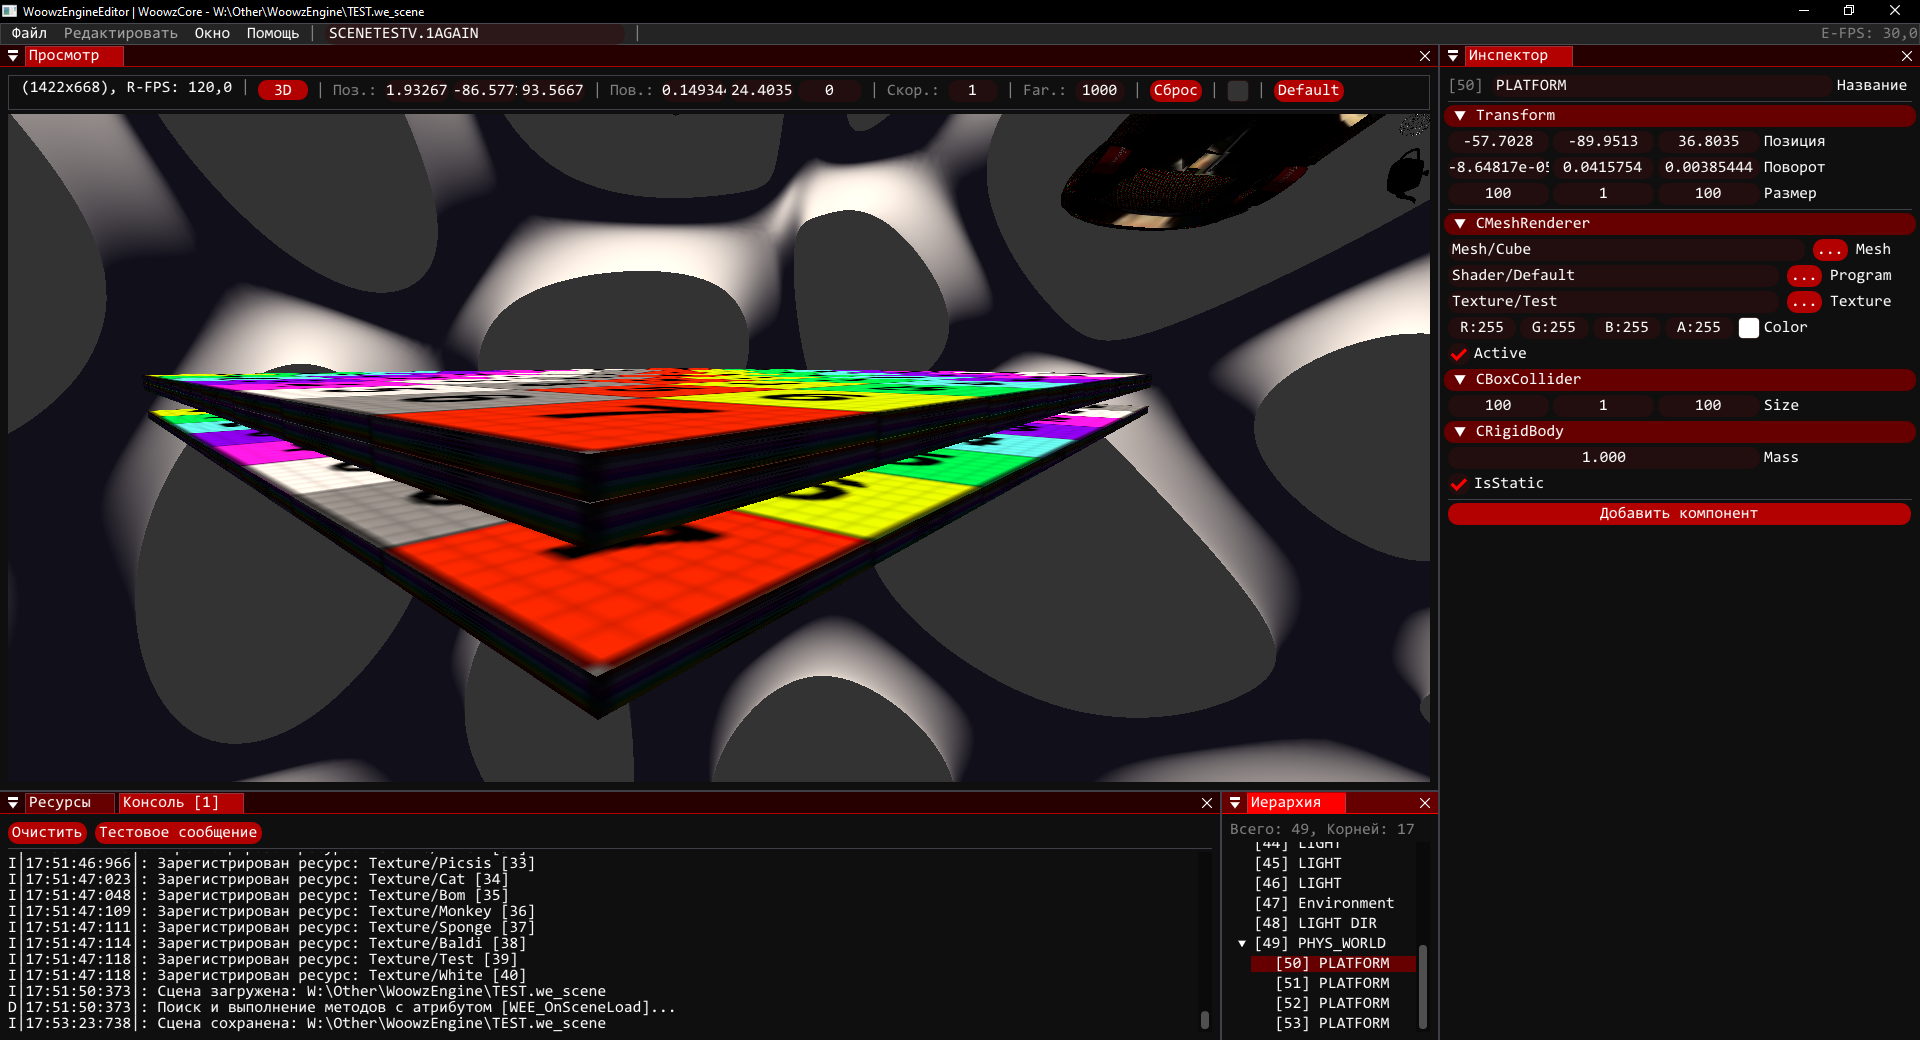
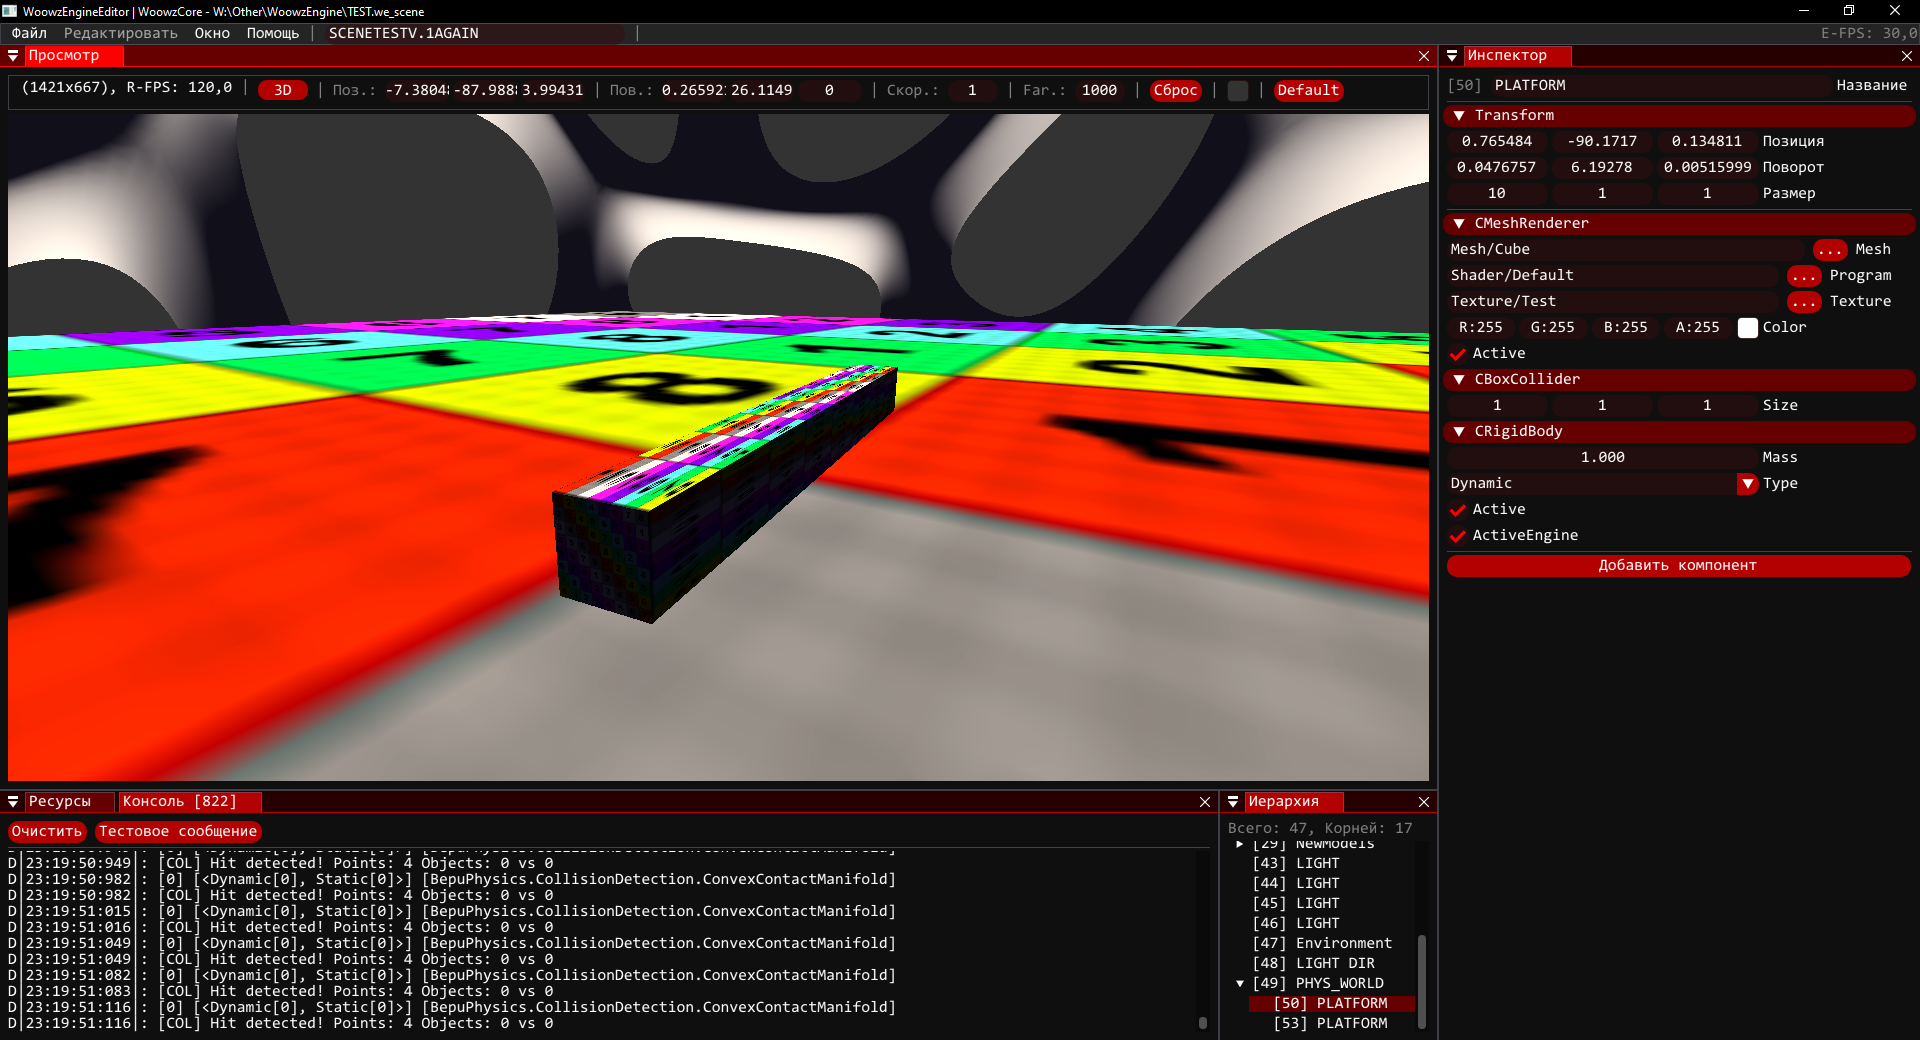
physic editor 💟💟💟✝☸⚛㊙ govno
Можно WE_Save теперь property
Component OnAdd, OnRemove
bool IsEditor

diff --git a/WoowzEngine/WoowzEngineEditor/WEE/Interface/I_Inspector.cs b/WoowzEngine/WoowzEngineEditor/WEE/Interface/I_Inspector.cs
@@ -113,23 +113,45 @@ public static class I_Inspector{
     }
     
     private static void DrawComponentFields(WEI.Component Component){
-        FieldInfo[] Fields = Component.GetType().GetFields(BindingFlags.Public | BindingFlags.NonPublic | BindingFlags.Instance);
-
-        foreach(FieldInfo Field in Fields){
+        Type Type = Component.GetType();
+        
+        foreach(FieldInfo Field in Type.GetFields(BindingFlags.Public | BindingFlags.NonPublic | BindingFlags.Instance)){
             if(Field.GetCustomAttribute<WE_Save>() == null){ continue; }
+            HandleMember(
+                Component,
+                Field.Name,
+                Field.FieldType,
+                () => Field.GetValue(Component),
+                Value => Field.SetValue(Component, Value),
+                Field
+            );
+        }
 
-            ImGui.PushID(Field.Name);
+        foreach(PropertyInfo Property in Type.GetProperties(BindingFlags.Public | BindingFlags.NonPublic | BindingFlags.Instance)){
+            if(Property.GetCustomAttribute<WE_Save>() == null || !Property.CanWrite || !Property.CanRead){ continue; }
+            HandleMember(
+                Component,
+                Property.Name,
+                Property.PropertyType,
+                () => Property.GetValue(Component),
+                Value => Property.SetValue(Component, Value),
+                Property
+            );
+        }
+    }
+    
+    private static void HandleMember(object Component, string Label, Type MemberType, Func<object?> Getter, Action<object?> Setter, MemberInfo Info){
+        ImGui.PushID(Label);
             
-            string Label = Field.Name;
-            object Value = Field.GetValue(Component)!;
+            object? Value = Getter();
 
-            Type FieldType = Field.FieldType;
+            if(Value == null && MemberType == typeof(string)){ Value = ""; }
 
-            if(FieldType.IsGenericType && FieldType.GetGenericTypeDefinition() == typeof(WEO.Asset<>)){
-                Type AssetTargetType = FieldType.GetGenericArguments()[0];
+            if(MemberType.IsGenericType && MemberType.GetGenericTypeDefinition() == typeof(WEO.Asset<>)){
+                Type AssetTargetType = MemberType.GetGenericArguments()[0];
 
-                string CurrentKey = (string)(FieldType.GetField("Key")!.GetValue(Value) ?? "");
-                bool   UseCache   = (bool)FieldType.GetField("UseCache")!.GetValue(Value)!;
+                string CurrentKey = (string)(MemberType.GetField("Key")!.GetValue(Value) ?? "");
+                bool   UseCache   = (bool)MemberType.GetField("UseCache")!.GetValue(Value)!;
                 
                 ImGui.BeginGroup();
 
@@ -141,8 +163,8 @@ public static class I_Inspector{
 
                     string TempKey = CurrentKey;
                     if(ImGui.InputText($"##in_{Label}", ref TempKey, 256)){
-                        ConstructorInfo? Constructor = FieldType.GetConstructor([typeof(string)]);
-                        Field.SetValue(Component, Constructor!.Invoke([TempKey]));
+                        ConstructorInfo? Constructor = MemberType.GetConstructor([typeof(string)]);
+                        Setter(Constructor!.Invoke([TempKey]));
                     }
 
                     if(!string.IsNullOrEmpty(CurrentKey) && ImGui.BeginDragDropSource()){
@@ -164,8 +186,8 @@ public static class I_Inspector{
 
                                 if(IsValidType){
                                     if(ImGui.IsMouseReleased(ImGuiMouseButton.Left)){
-                                        ConstructorInfo? Constructor = FieldType.GetConstructor([typeof(string)]);
-                                        Field.SetValue(Component, Constructor!.Invoke([DroppedKey]));
+                                        ConstructorInfo? Constructor = MemberType.GetConstructor([typeof(string)]);
+                                        Setter(Constructor!.Invoke([DroppedKey]));
                                     }
                                     
                                     ImGui.GetWindowDrawList().AddRect(ImGui.GetItemRectMin(), ImGui.GetItemRectMax(), ImGui.GetColorU32(new Vector4(0.2f, 1, 0.2f, 1)), 4.0f);
@@ -193,63 +215,63 @@ public static class I_Inspector{
                 if(ImGui.BeginPopup("AssetPicker")){
                     foreach(string Key in WE.Asset.GetKeysForType(AssetTargetType).OrderBy(K => K)){
                         if(ImGui.Selectable(Key, Key == CurrentKey)){
-                            ConstructorInfo? Constructor = FieldType.GetConstructor([typeof(string)]);
-                            Field.SetValue(Component, Constructor!.Invoke([Key]));
+                            ConstructorInfo? Constructor = MemberType.GetConstructor([typeof(string)]);
+                            Setter(Constructor!.Invoke([Key]));
                         }
                     }
                     ImGui.EndPopup();
                 }
-            }else if(FieldType == typeof(float)){
-                float V = (float)Value;
-                if(ImGui.DragFloat(Label, ref V, 0.1f)){ Field.SetValue(Component, V); }
-            }else if(FieldType == typeof(int)){
-                int V = (int)Value;
-                if(ImGui.DragInt(Label, ref V)){ Field.SetValue(Component, V); }
-            }else if(FieldType == typeof(bool)){
-                bool V = (bool)Value;
-                if(ImGui.Checkbox(Label, ref V)){ Field.SetValue(Component, V); }
-            }else if(FieldType == typeof(string)){
-                string V = (string)Value ?? "";
+            }else if(MemberType == typeof(float)){
+                float V = (float)Value!;
+                if(ImGui.DragFloat(Label, ref V, 0.1f)){ Setter(V); }
+            }else if(MemberType == typeof(int)){
+                int V = (int)Value!;
+                if(ImGui.DragInt(Label, ref V)){ Setter(V); }
+            }else if(MemberType == typeof(bool)){
+                bool V = (bool)Value!;
+                if(ImGui.Checkbox(Label, ref V)){ Setter(V); }
+            }else if(MemberType == typeof(string)){
+                string V = (string)Value!;
 
-                WEEI_MultilineString? MultilineAttribute = Field.GetCustomAttribute<WEEI_MultilineString>();
+                WEEI_MultilineString? MultilineAttribute = Info.GetCustomAttribute<WEEI_MultilineString>();
 
                 if(MultilineAttribute != null){
                     ImGui.Text(Label);
                     if(ImGui.InputTextMultiline($"##{Label}", ref V, 5000, new Vector2(-1, MultilineAttribute.Height))){
-                        Field.SetValue(Component, V);
+                        Setter(V);
                     }
                 }else{
                     if(ImGui.InputText(Label, ref V, 200)){
-                        Field.SetValue(Component, V);
+                        Setter(V);
                     }
                 }
-            }else if(FieldType == typeof(Vector3F)){
-                Vector3F V = (Vector3F)Value;
+            }else if(MemberType == typeof(Vector3F)){
+                Vector3F V = (Vector3F)Value!;
                 Vector3 SysV = new Vector3(V.X, V.Y, V.Z);
                 if(ImGui.DragFloat3(Label, ref SysV, 0.1f, 0, 0, "%g")){
-                    Field.SetValue(Component, new Vector3F(SysV.X, SysV.Y, SysV.Z));
+                    Setter(new Vector3F(SysV.X, SysV.Y, SysV.Z));
                 }
-            }else if(FieldType == typeof(Vector2F)){
-                Vector2F V = (Vector2F)Value;
+            }else if(MemberType == typeof(Vector2F)){
+                Vector2F V = (Vector2F)Value!;
                 Vector2 SysV = new Vector2(V.X, V.Y);
                 if(ImGui.DragFloat2(Label, ref SysV, 0.1f, 0, 0, "%g")){
-                    Field.SetValue(Component, new Vector2F(SysV.X, SysV.Y));
+                    Setter(new Vector2F(SysV.X, SysV.Y));
                 }
-            }else if(FieldType == typeof(Color4B)){
-                Color4B V = (Color4B)Value;
+            }else if(MemberType == typeof(Color4B)){
+                Color4B V = (Color4B)Value!;
                 Vector4 SysV = new Vector4(V.R / 255f, V.G / 255f, V.B / 255f, V.A / 255f);
                 if(ImGui.ColorEdit4(Label, ref SysV)){
-                    Field.SetValue(Component, new Color4B((byte)(SysV.X * 255), (byte)(SysV.Y * 255), (byte)(SysV.Z * 255), (byte)(SysV.W * 255)));
+                    Setter(new Color4B((byte)(SysV.X * 255), (byte)(SysV.Y * 255), (byte)(SysV.Z * 255), (byte)(SysV.W * 255)));
                 }
-            }else if(FieldType.IsEnum){
-                string[] Names = Enum.GetNames(FieldType);
-                string CurrentName = Value.ToString()!;
+            }else if(MemberType.IsEnum){
+                string[] Names = Enum.GetNames(MemberType);
+                string CurrentName = Value!.ToString()!;
 
                 if(ImGui.BeginCombo(Label, CurrentName)){
                     foreach(string Name in Names){
                         bool IsSelected = CurrentName == Name;
                         if(ImGui.Selectable(Name, IsSelected)){
-                            Field.SetValue(Component, Enum.Parse(FieldType, Name));
+                            Setter(Enum.Parse(MemberType, Name));
                         }
 
                         if(IsSelected){
@@ -261,7 +283,6 @@ public static class I_Inspector{
                 }
             }
             
-            ImGui.PopID();
-        }
+        ImGui.PopID();
     }
 }

diff --git a/WoowzEngine/WoowzEngine/WEI/Component.cs b/WoowzEngine/WoowzEngine/WEI/Component.cs
@@ -10,22 +10,41 @@ public abstract class Component : WLI.Packable{
 
     public virtual Dictionary<string, object?> __Pack(){
         Dictionary<string, object?> Data = new Dictionary<string, object?>();
-
-        foreach(FieldInfo Field in GetType().GetFields(BindingFlags.Public | BindingFlags.NonPublic | BindingFlags.Instance)){
+        Type Type = GetType();
+        
+        foreach(FieldInfo Field in Type.GetFields(BindingFlags.Public | BindingFlags.NonPublic | BindingFlags.Instance)){
             if(Field.GetCustomAttribute<WE_Save>() == null){ continue; }
 
             Data[Field.Name] = Field.GetValue(this);
+        }
+        
+        foreach(PropertyInfo Property in Type.GetProperties(BindingFlags.Public | BindingFlags.NonPublic | BindingFlags.Instance)){
+            if(Property.GetCustomAttribute<WE_Save>() == null || !Property.CanRead){ continue; }
+
+            Data[Property.Name] = Property.GetValue(this);
         }
         
         return Data;
     }
 
     public virtual void __Unpack(Dictionary<string, object?> Data){
-        foreach(FieldInfo Field in GetType().GetFields(BindingFlags.Public | BindingFlags.NonPublic | BindingFlags.Instance)){
-            if(Field.GetCustomAttribute<WE_Save>() == null){ continue; }
-
-            if(Data.TryGetValue(Field.Name, out object? Value)){
-                Field.SetValue(this, WL.Packer.Unpack(Value, Field.FieldType));
+        Type Type = GetType();
+        const BindingFlags Flags = BindingFlags.Public | BindingFlags.NonPublic | BindingFlags.Instance;
+        
+        foreach(KeyValuePair<string, object?> KVP in Data){
+            FieldInfo? Field = Type.GetField(KVP.Key, Flags);
+            if(Field != null){
+                if(Field.GetCustomAttribute<WE_Save>() != null){
+                    Field.SetValue(this, WL.Packer.Unpack(KVP.Value, Field.FieldType));
+                }
+                continue;
+            }
+        
+            PropertyInfo? Property = Type.GetProperty(KVP.Key, Flags);
+            if(Property != null){
+                if(Property.GetCustomAttribute<WE_Save>() != null){
+                    Property.SetValue(this, WL.Packer.Unpack(KVP.Value, Property.PropertyType));
+                }
             }
         }
     }
@@ -38,17 +57,11 @@ public abstract class Component : WLI.Packable{
     
     // ----------------------------------------------------------------------
 
-    // TODO, додел это, оно не вызывается
-    [Obsolete]
     public virtual void OnAdd(){}
 
-    // TODO, додел это, оно не вызывается
-    [Obsolete]
-    public virtual void OnDestroy(){}
+    public virtual void OnRemove(){}
 
     public virtual void OnStart(){}
 
     public virtual void OnUpdate(DeltaTimeInfo DTI){}
-    
-    public virtual void OnEngineUpdate(DeltaTimeInfo DTI){}
 }

diff --git a/WoowzEngine/WoowzEngine/WEO/Entity.cs b/WoowzEngine/WoowzEngine/WEO/Entity.cs
@@ -56,6 +56,8 @@ public class Entity : WLI.Packable, WLI.Hierarchical<Entity>{
         
         Scene?.RegisterComponent(Component);
         
+        Component.OnAdd();
+        
         return Component;
     }
     
@@ -65,6 +67,8 @@ public class Entity : WLI.Packable, WLI.Hierarchical<Entity>{
 
     public bool RemoveComponent(Component Component){
         if(__Components.Remove(Component)){
+            Component.OnRemove();
+            
             Scene?.UnregisterComponent(Component);
             
             Component.Owner = null!;
@@ -74,6 +78,8 @@ public class Entity : WLI.Packable, WLI.Hierarchical<Entity>{
     }
 
     public IEnumerable<Component> GetAllComponents() => __Components;
+
+    public IEnumerable<T> GetComponents<T>() where T : Component => __Components.OfType<T>();
     
     public void SetTransformDirty(){
         if(Transform.__IsDirty){ return; }
@@ -109,7 +115,9 @@ public class Entity : WLI.Packable, WLI.Hierarchical<Entity>{
     public void SetFrom(Entity Other){
         Transform.SetFrom(Other.Transform);
         
-        __Components.Clear();
+        List<Component> OldComponents = __Components.ToList();
+        foreach(Component Component in OldComponents){ RemoveComponent(Component); }
+        
         foreach(Component OtherComponent in Other.__Components){
             Component NewComponent = (Component)Activator.CreateInstance(OtherComponent.GetType())!;
             NewComponent.Owner = this;
@@ -117,6 +125,9 @@ public class Entity : WLI.Packable, WLI.Hierarchical<Entity>{
             WL.Packer.Unpack(NewComponent, WL.Packer.Pack(OtherComponent) as Dictionary<string, object>);
             
             __Components.Add(NewComponent);
+            Scene?.RegisterComponent(NewComponent);
+            
+            NewComponent.OnAdd();
         }
 
         foreach(HierarchyNode<Entity> Children in Other.Node.Children){
@@ -168,18 +179,14 @@ public class Entity : WLI.Packable, WLI.Hierarchical<Entity>{
         
         List<Component>? ComponentsList = WL.Packer.Get<List<Component>>(Data, "Components");
         if(ComponentsList != null){
-            if(Scene != null){
-                foreach(Component C in __Components){
-                    Scene.UnregisterComponent(C);
-                }
-            }
+            foreach(Component Component in __Components.ToList()){ RemoveComponent(Component); }
             
-            __Components.Clear();
-            foreach(var Component in ComponentsList){
+            foreach(Component? Component in ComponentsList){
                 if(Component != null!){
                     Component.Owner = this;
                     __Components.Add(Component);
                     Scene?.RegisterComponent(Component);
+                    Component.OnAdd();
                 }
             }
         }

diff --git a/WoowzEngine/WoowzEngine/WEO/Scene.cs b/WoowzEngine/WoowzEngine/WEO/Scene.cs
@@ -169,8 +169,8 @@ public class Scene : WLI.Packable{
     public void UpdateEngine(DeltaTimeInfo DTI){
         if(!DoEngineUpdate){ return; }
 
-        foreach(Component C in GetComponents<Component>()){
-            C.OnEngineUpdate(DTI);
+        foreach(EngineComponent C in GetComponents<EngineComponent>()){
+            C.OnEngineUpdate(DTI, false /* todo */);
         }
     }
     
@@ -179,6 +179,10 @@ public class Scene : WLI.Packable{
         
         foreach(RenderComponent C in GetComponents<RenderComponent>()){
             C.OnRender(DTI, CameraPosition);
+        }
+        
+        foreach(EngineComponent C in GetComponents<EngineComponent>()){
+            C.OnEngineRender(DTI, CameraPosition, false /* todo */);
         }
     }
     

diff --git a/WoowzEngine/WoowzEngine/WEI/Attribute/WEEI_MultilineString.cs b/WoowzEngine/WoowzEngine/WEI/Attribute/WEEI_MultilineString.cs
@@ -1,6 +1,6 @@
 namespace WEI_Attribute;
 
-[AttributeUsage(AttributeTargets.Field)]
+[AttributeUsage(AttributeTargets.Field | AttributeTargets.Property)]
 public class WEEI_MultilineString : Attribute{
     public int Height;
     public WEEI_MultilineString(int Height = 100){ this.Height = Height; }

diff --git a/WoowzEngine/WoowzEngine/WEI/EngineComponent.cs b/WoowzEngine/WoowzEngine/WEI/EngineComponent.cs
@@ -1,0 +1,9 @@
+using WLO;
+using WLO.Math;
+
+namespace WEI;
+
+public interface EngineComponent{
+    public virtual void OnEngineUpdate(DeltaTimeInfo DTI, bool Selected){}
+    public virtual void OnEngineRender(DeltaTimeInfo DTI, Vector3F CameraPosition, bool Selected){}
+}

diff --git a/WoowzEngine/WoowzEngine/WE/Engine.cs b/WoowzEngine/WoowzEngine/WE/Engine.cs
@@ -30,4 +30,7 @@ public struct Engine{
             throw new ExceptionWE("Произошла ошибка при остановке WoowzEngine!", e);
         }
     }
+
+    // todo, remove setter?
+    public static bool IsEditor = false;
 }

diff --git a/WoowzEngine/WoowzEngineEditor/WEE/Main.cs b/WoowzEngine/WoowzEngineEditor/WEE/Main.cs
@@ -12,6 +12,7 @@ public static class Main{
     public static void Start(string[] Args){
         try{
             WE.Engine.Start();
+            WE.Engine.IsEditor = true;
 
             Pipeline = new Pipeline();
             

diff --git a/WoowzEngine/WoowzEngine/WEI/Attribute/WE_Save.cs b/WoowzEngine/WoowzEngine/WEI/Attribute/WE_Save.cs
@@ -1,4 +1,4 @@
 namespace WEI_Attribute;
 
-[AttributeUsage(AttributeTargets.Field)]
+[AttributeUsage(AttributeTargets.Field | AttributeTargets.Property)]
 public class WE_Save : Attribute{}
